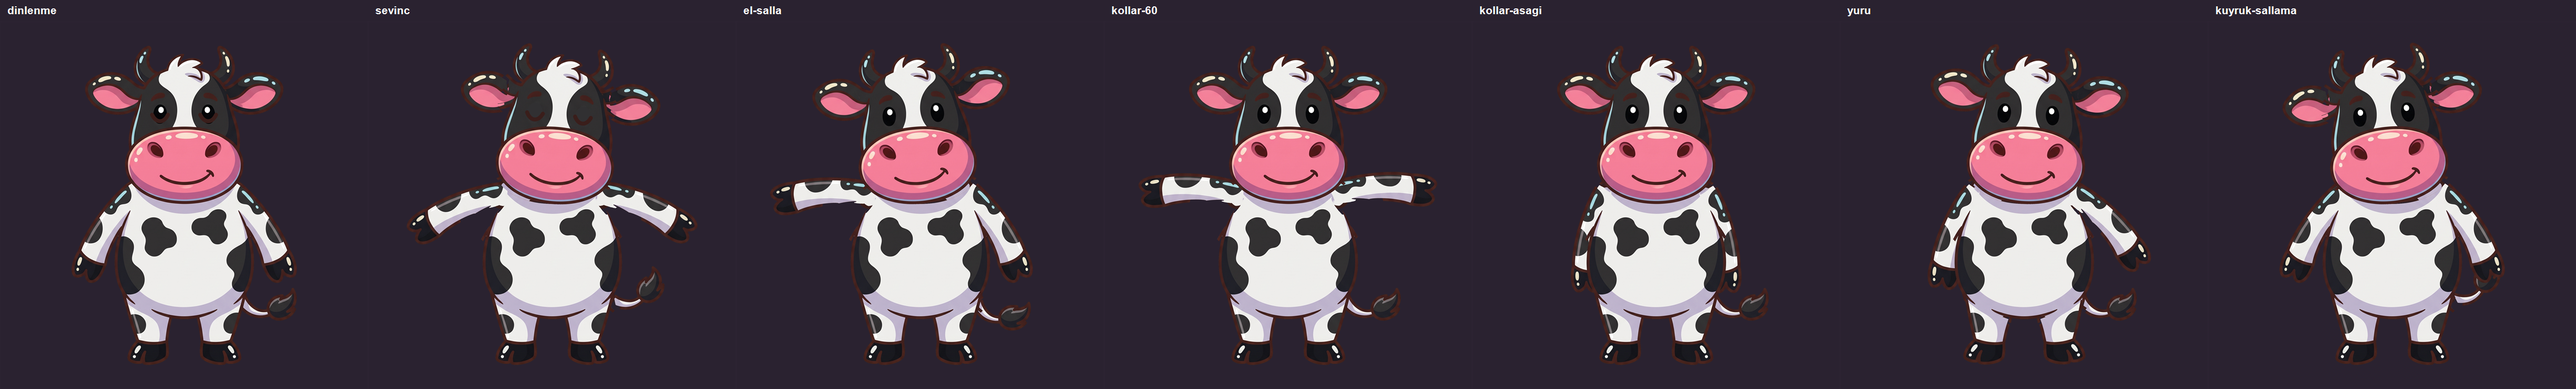
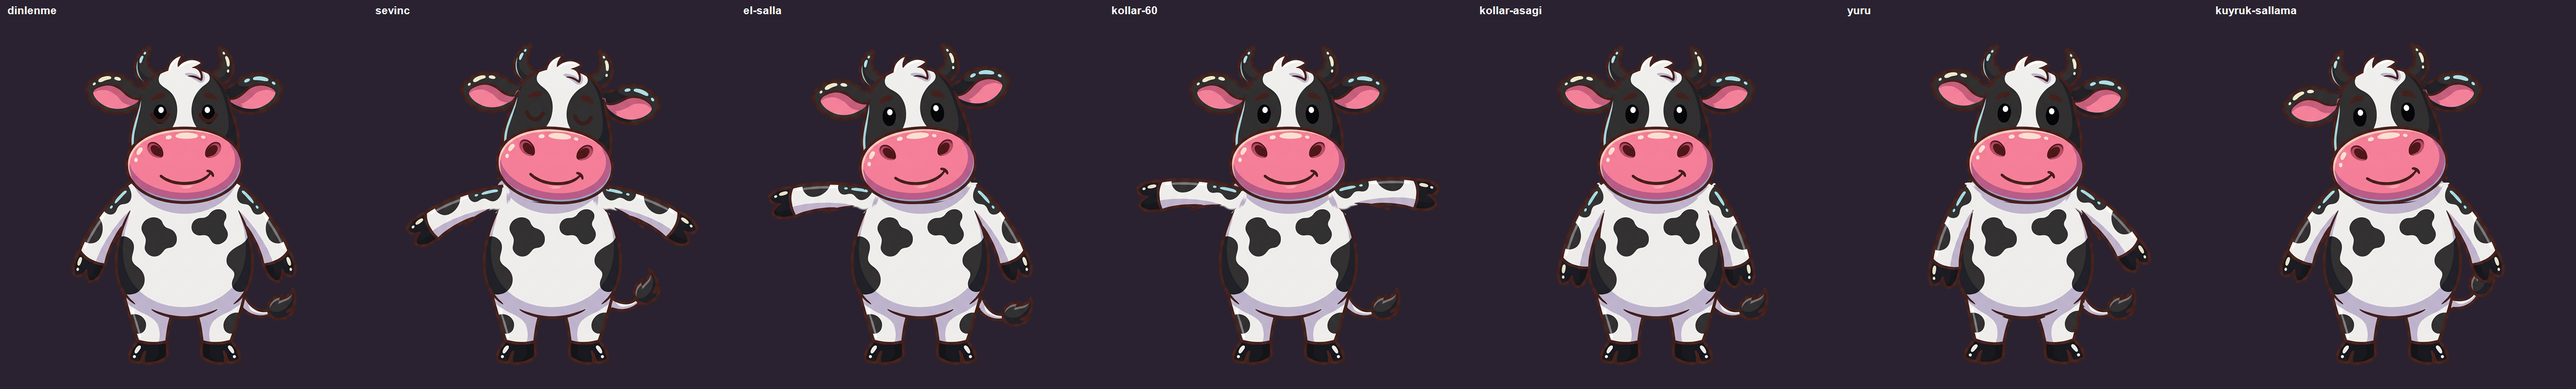
Karakter: inek iskeleti ve sinirlari (kollar onde, kuyruk siniri)

diff --git a/src/karakter/kisilik.ts b/src/karakter/kisilik.ts
@@ -23,14 +23,15 @@ export interface Kisilik {
   /** iskelette kafa eğilmesinin genliği (varsayılan 1.8) */
   kafaGenlik?: number;
   /** iskelete özel açı sınırları (±derece): fazlasında eklem yerinde boşluk açılan karakterler için */
-  sinir?: { kafa?: number; kulak?: number; bacak?: number };
+  sinir?: { kafa?: number; kulak?: number; bacak?: number; kuyruk?: [number, number] };
 }
 
 export const KISILIK: Record<string, Kisilik> = {
   ordek: { yuruyus: 'paytak', adim: 260, gelis: 1500, huy: 'ayak', dans: 'paytak', agiz: [0.5, 0.49], hayir: 10 },
   tavsan: { yuruyus: 'hop', adim: 430, gelis: 1300, huy: 'burun', dans: 'hop', agiz: [0.5, 0.52], hayir: 8 },
   ayi: { yuruyus: 'agir', adim: 720, gelis: 2100, huy: 'esne', dans: 'gobek', agiz: [0.52, 0.56], hayir: 5, kol: [-25, 60], sinir: { kafa: 6, kulak: 10, bacak: 5 } },
-  inek: { yuruyus: 'salin', adim: 620, gelis: 1900, huy: 'gevis', dans: 'don', agiz: [0.78, 0.46], hayir: 6 },
+  // inek iskeleti: kollar gövdenin önünde (katman sırası JSON'da), kuyruk -40 … +15
+  inek: { yuruyus: 'salin', adim: 620, gelis: 1900, huy: 'gevis', dans: 'don', agiz: [0.51, 0.43], hayir: 6, kol: [-10, 60], sinir: { kafa: 6, kulak: 10, bacak: 5, kuyruk: [-40, 15] } },
   kopek: { yuruyus: 'tiris', adim: 220, gelis: 1100, huy: 'kuyruk', dans: 'kovala', agiz: [0.5, 0.5], hayir: 9, kol: [-5, 60] },
   maymun: { yuruyus: 'takla', adim: 500, gelis: 1400, huy: 'kasin', dans: 'salto', agiz: [0.5, 0.4], hayir: 9 },
   kus: { yuruyus: 'uc', adim: 180, gelis: 1500, huy: 'gaga', dans: 'kanat', agiz: [0.86, 0.36], hayir: 12 },

diff --git a/src/karakter/karakter.ts b/src/karakter/karakter.ts
@@ -342,7 +342,7 @@ export class Karakter {
       'bacak-sag': -sin(p.bacakSag, s.bacak),
       'ayak-sol': sin(p.bacakSol, s.bacak),
       'ayak-sag': -sin(p.bacakSag, s.bacak),
-      kuyruk: p.kuyruk,
+      kuyruk: s.kuyruk ? Math.max(s.kuyruk[0], Math.min(s.kuyruk[1], p.kuyruk)) : p.kuyruk,
     };
     for (const [id, g] of this.parca) {
       let tr = kok;
